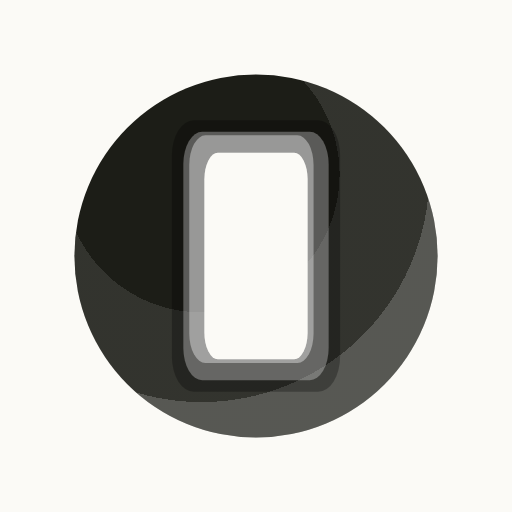
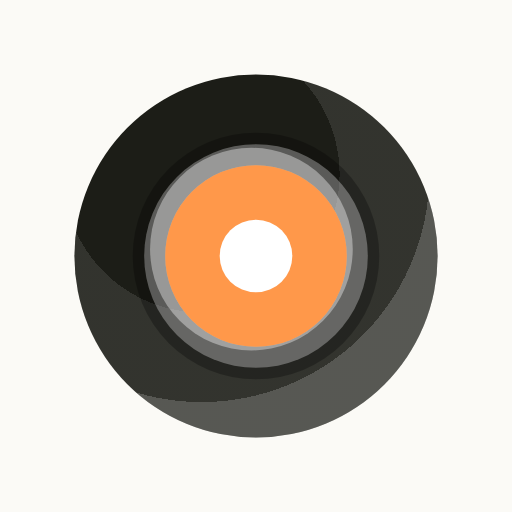
.394 the mark's optic is round, and orange
The slot is gone. It was a good aperture and a bad machine: a straight edge
drawn across an upright oval leaves a triangle, a wedge or a trapezoid, so the
HOLE changed shape at every lid position — which is a thing eyes do and machines
do not, and it is why the lid poses kept coming back reading as a face however
they were tuned. A circle is the one opening a straight edge cannot deform:
whatever angle a shutter arrives at, what is left is a circle with a chord taken
off it. The plate was already covering the whole opening, so this is the second
half of that fix rather than a new idea.

- MC_LENS_R 0.50 replaces MC_EYE_W/MC_EYE_H/MC_EYE_R. The lens is half the body
  wide, in the bezel and plate that already shipped, and slot() becomes disc().
- MC_CORE 0.40 blows the middle to white, gated on tone with the rim. It is what
  lets the lens be a mid-value hue at all: the colour carries the identity and
  the core carries the brightness, so neither has to do both.
- --mark-ink #fbfaf6 -> #ff984a. Cream was honest while the aperture was a hole
  cut in the body; a round lens is a thing that is ON, and a lamp has a colour.
  Orange because it is the one hue in the set that is neither a tab's band nor a
  state — lime is insights, yellow training, red injuries, purple data, blue
  settings, and a mark wearing any of those reads as that section.
- mcInset now solves from the OUTER BEZEL, not the lens. The bezel is the widest
[…]

Changed region(s): [[0.2812, 0.25, 0.7188, 0.7812]]

diff --git a/index.html b/index.html
@@ -26,8 +26,8 @@
 <!-- The mark itself: a full-bleed lime field with the two eyes on it. Full bleed
      because iOS rounds the corners of a home-screen icon for you, and rounding them
      here as well would inset the plate inside its own rounding. -->
[4 lines of base64/hex data omitted]
 <!-- THE FONT DOES NOT HOLD THE PAGE UP ANY MORE.
      It was pulled by @import from inside the stylesheet, which is the slowest way there is
      to load one: discovered only after the CSS has parsed, render-blocking once it is, and
@@ -195,7 +195,13 @@
        than needing a bone variant. The knockout goes cream: an ink eye in an ink body is not
        an eye. */
     --mark-shell:#1c1d17;
-    --mark-ink:#fbfaf6;
+    /* The optic's colour. It was the page's cream, which was the honest choice while the
+       aperture was a slot cut in the body — a hole shows you the light behind it and cream is
+       what "light" is here. A round lens is a different object: it is a thing that is ON,
+       and a lamp has a colour. Orange because it is the one hue in the set that is neither a
+       tab's band nor a state: lime is insights, yellow training, red injuries, purple data,
+       blue settings, and a mark wearing any of those reads as that section. */
+    --mark-ink:#ff984a;
     /* Sand. The same value --face-3 carries as a rating, named separately because this is not
        one: a token used for its hue has no business reading as "ok" wherever it turns up. If
        the rating scale is ever recut, that one moves and this does not. */
@@ -5915,23 +5921,34 @@ const MC_RAD = Math.PI / 180;
 /* Radius as a fraction of the host's drawing size. 0.56 puts a 38px sphere in the header's
    40px box at --mc-scale 0.85, which is the size the drafts were approved at. */
 const MC_RADIUS = 0.56;
-/* The eye, as fractions of the radius: a stadium 10.8 wide by 21.6 tall on a 38px sphere.
-   Half as wide as it is tall, which is the width at which it stops being a slot and starts
-   reading as an aperture — the thing the mark is: a lens in a solid, not a face on a ball. */
-const MC_EYE_W = 0.2843, MC_EYE_H = 0.5684;
-/* MACHINED, NOT GROWN. Two changes that between them stop the mark reading as an eye, and
-   both work by saying the hole was CUT rather than by adding anything inside it — which is
-   the trap, because the inside of an eye has structure too, so detail there only ever makes
-   a more detailed eye.
+/* THE OPTIC IS ROUND, AND THAT IS WHAT MAKES THE SHUTTERS WORK.
+   It was an upright slot, twice as tall as it was wide. The slot was a good aperture and a
+   bad machine: a straight edge drawn across it leaves a triangle, a wedge or a trapezoid, so
+   the HOLE changed shape at every lid position — which is a thing eyes do and machines do
+   not, and it is why the lid poses kept coming back reading as a face however they were
+   tuned. A circle is the one opening a straight edge cannot deform: whatever angle a shutter
+   arrives at, what is left is a circle with a chord taken off it, which is a plate sliding
+   over a lens and nothing else. The plate below was already covering the whole opening, so
+   this is the second half of that fix rather than a new idea.
 
-   MC_EYE_R is the aperture's corner radius as a fraction of its half-size. It was a full
-   stadium; a quarter is a slot with the corners taken off, which is what a machined opening
-   looks like. The BEZEL is the other half: two rings on the body around the hole, a shadow
-   outside and a lip inside, so there is a rim of material between the body and the opening.
-   It is the only cue here that lives on the body rather than in the aperture — and it is the
-   one that survives the mark turning, because a ring foreshortens as a rigid thing while an
-   oval just goes narrow, which is what a squint looks like. */
-const MC_EYE_R = 0.26;
+   Radius as a fraction of the sphere's, so the lens is half the body wide. */
+const MC_LENS_R = 0.50;
+/* The lit disc is blown out to white at its middle, as a fraction of the lens radius. It is
+   the difference between a painted disc and a lamp, and it is what lets the lens be a
+   mid-value hue at all: the colour carries the identity and the core carries the brightness,
+   so neither has to do both. Gated on tone with the rim — an unlit mount has no light for a
+   core to be the hot part of. */
+const MC_CORE = 0.40;
+/* MACHINED, NOT GROWN. The cues that stop the mark reading as an eye all work by saying the
+   hole was CUT rather than by adding anything inside it — which is the trap, because the
+   inside of an eye has structure too, so detail there only ever makes a more detailed eye.
+
+   The BEZEL is two rings on the body around the hole, a shadow outside and a lip inside, so
+   there is a rim of material between the body and the opening. It is the only cue here that
+   lives on the body rather than in the aperture — and it is the one that survives the mark
+   turning, because a ring foreshortens as a rigid thing while an oval just goes narrow,
+   which is what a squint looks like. Round now like the rest of the assembly, which cost it
+   nothing: it was already drawn as the aperture's own shape at a pair of insets. */
 const MC_BEZEL_OUT = 3.4 / 19, MC_BEZEL_IN = 2.2 / 19;
 /* THE SHUTTERS HAVE A BODY NOW.
    A lid used to mean the aperture simply was not there, so what you saw was whatever was
@@ -5939,23 +5956,21 @@ const MC_BEZEL_OUT = 3.4 / 19, MC_BEZEL_IN = 2.2 / 19;
    the HOLE was changing shape, which is a thing eyes do and machines do not.
 
    Filling the whole opening and drawing the aperture on top of it fixes that with no new
-   geometry at all, only an order: the opening stays a full slot at every lid position, and
+   geometry at all, only an order: the opening stays a full disc at every lid position, and
    something slides across it. It is painted in the tone at an alpha for the same reason
    everything else here is — a step from the body TOWARD the aperture, which comes out lighter
    on the wordmark's ink and darker on the chip's face colour without knowing either. */
 const MC_PLATE_A = 0.22;
-/* INSET pulls the eye's CENTRE in from the surface, because the bar has width and height and
-   the point it sits on has neither. It is not a picked number. Turned to ry the centre rides
-   out to INSET*sin(ry) while the bar's own half-width foreshortens to W*cos(ry), so across
-   the whole rotation the furthest a corner ever gets from the middle is hypot(INSET, W) one
-   way and H the other — and that has to stay inside the body. Solved, this is the largest
-   inset that never breaks the silhouette at any angle, which leaves the clip below as a
-   backstop rather than the mechanism.
+/* INSET pulls the optic's CENTRE in from the surface, because the lens has an extent and the
+   point it sits on has none. It is not a picked number. Turned to ry the centre rides out to
+   INSET*sin(ry) while the lens foreshortens to R*cos(ry), so the furthest its edge ever gets
+   from the middle is hypot(INSET, R) — and that has to stay inside the body. Solved, this is
+   the largest inset that never breaks the silhouette at any angle, which leaves the clip
+   below as a backstop rather than the mechanism.
 
-   It was hardcoded at 0.80, which is exactly this number for the 7.2 bar it was written for
-   — so it looked like a round choice and was really a solved one, and it quietly sliced the
-   eye the moment the bar got wider. */
-function mcInset(w){ return Math.sqrt(Math.max(0, 1 - w*w - MC_EYE_H*MC_EYE_H)); }
+   The slot needed two terms here, its half-width and its half-height, and had to be checked
+   in both. A circle reaches R in every direction at once, so there is only the one. */
+function mcInset(r){ return Math.sqrt(Math.max(0, 1 - r*r)); }
 /* TWO SHUTTERS, WHICH IS WHERE THE EXPRESSION ACTUALLY LIVES.
    A pair of eyes carried expression in the gap between them and in two lids working together.
    One aperture has neither — so it gets lids of its own, and they are the whole point: a
@@ -5964,14 +5979,13 @@ function mcInset(w){ return Math.sqrt(Math.max(0, 1 - w*w - MC_EYE_H*MC_EYE_H));
    The same lid position with the tilt mirrored is the difference between a frown and a droop,
    and nothing a scalar can do tells those apart.
 
-   lidT and lidB are where each edge sits across the aperture, in its own half-heights: 0 is
-   the middle, ±MC_LID_OPEN is clear of it altogether. lidTA and lidBA are their tilts, in
-   SCREEN degrees — converted on the way in, because the aperture's own space is twice as tall
-   as it is wide and a line at 20 degrees in it lands at nearly 40 on screen.
+   lidT and lidB are where each edge sits across the lens, in lens radii: 0 is the middle,
+   ±MC_LID_OPEN is clear of it altogether. lidTA and lidBA are their tilts, in degrees — and
+   on a round lens those ARE screen degrees, with nothing to convert.
 
-   ew is the fifth: how far the aperture opens sideways. All of them interpolate exactly like
-   the angles, so a step can carry any mix, and a move that touches only these never rotates
-   the body at all. */
+   ew is the fifth: how wide the optic opens. All of them interpolate exactly like the angles,
+   so a step can carry any mix, and a move that touches only these never rotates the body at
+   all. */
 const MC_LID_OPEN = 1.25;
 const MC_CH = ['rx', 'ry', 'rz', 'ew', 'lidT', 'lidTA', 'lidB', 'lidBA'];
 const MC_CH_REST = { rx:0, ry:0, rz:0, ew:1,
@@ -5986,8 +6000,10 @@ const MC_CH_REST = { rx:0, ry:0, rz:0, ew:1,
    entirely; null when the two edges have crossed and there is no aperture left to draw. */
 function mcLidPoly(T, aT, B, aB){
   if(aT === 0 && aB === 0 && T <= -1.02 && B >= 1.02) return true;
-  const tU = Math.tan(aT * MC_RAD) * (MC_EYE_W / MC_EYE_H);
-  const tB = Math.tan(aB * MC_RAD) * (MC_EYE_W / MC_EYE_H);
+  /* No aspect correction any more. The lens's own space is a unit circle, so a degree in it
+     is a degree on screen; the slot needed the ratio because it was twice as tall as wide. */
+  const tU = Math.tan(aT * MC_RAD);
+  const tB = Math.tan(aB * MC_RAD);
   const cut = (poly, at)=>{
     const out = [];
     for(let i = 0; i < poly.length; i++){
@@ -6054,7 +6070,7 @@ const MC_STEPS = [[0,0], [0.40,0], [0.40,0.10], [0.66,0.10],
                   [0.66,0.26], [0.86,0.26], [0.86,0.50], [1,0.50]];
 /* THE APERTURE IS BORED, NOT PRINTED.
    A flat eye sits ON the body; this one is a hole cut INTO it, and the only thing that says
-   so is its edge catching the light. Drawn as the same stadium a touch larger, shifted toward
+   so is its edge catching the light. Drawn as the same circle a touch larger, shifted toward
    MC_LIGHT and painted under the eye, so the only part that survives is the sliver on the lit
    side — which is exactly where a bored edge would catch it.
 
@@ -6139,15 +6155,18 @@ function mcPaint(m){
      is drawn along. One matrix out of those three is the whole of the eye's perspective. */
   const dir = P(G([0,0,1])), ex = P(G([1,0,0])), ey = P(G([0,1,0]));
   const cid = m.id, gid = m.id + 'Lit';
+  /* The outline's stroke weight, hoisted: the lens on that mount is drawn at the same weight
+     as the body, so the two rings read as one construction rather than two decisions. */
+  const lineW = m.line ? Math.max(1, s * 0.068) : 0;
   let out = '';
   if(m.line){
     /* THE OUTLINE IS THE SAME SOLID, UNPAINTED.
        Same circle, same eye, same size — asking and answered are one drawing and only the
        treatment differs. Stroked inside the radius so the ring's outer edge lands exactly on
        the silhouette the filled one paints to. */
-    const t = Math.max(1, s * 0.068), r = Math.max(0.5, rad - t/2);
+    const r = Math.max(0.5, rad - lineW/2);
     out += `<circle cx="${c}" cy="${c}" r="${r.toFixed(2)}" fill="none"`
-         + ` style="stroke:${m.line}" stroke-width="${t.toFixed(2)}"/>`
+         + ` style="stroke:${m.line}" stroke-width="${lineW.toFixed(2)}"/>`
          + `<clipPath id="${cid}"><circle cx="${c}" cy="${c}" r="${r.toFixed(2)}"/></clipPath>`;
   } else {
     out += `<circle cx="${c}" cy="${c}" r="${rad.toFixed(2)}" style="fill:${m.shell}"/>`;
@@ -6174,29 +6193,34 @@ function mcPaint(m){
      point — the cube kept a second eye on its back face because a half turn would otherwise
      have landed on a blank side, and a sphere has no sides to land on. */
   if(dir[2] > 0.02){
-    /* The inset is solved from the width, and the width moves now, so it is solved per frame
-       rather than once. A wider aperture has to sit further in or its corner leaves the body
-       at the limb — the same equation as before, just no longer a constant. */
-    const wf = MC_EYE_W * mcState.ew, inset = mcInset(wf);
-    const ew = rad * wf;
-    /* Full height, always. The lids do the closing now, so the aperture is never squashed —
-       which is what keeps its round ends round instead of flattening them into a lozenge. */
-    const eh = rad * MC_EYE_H;
+    /* The inset is solved from the lens's radius, and ew moves that, so it is solved per
+       frame rather than once. A wider optic has to sit further in or its edge leaves the body
+       at the limb — the same equation as before, just no longer a constant.
+
+       ew scales the WHOLE assembly, bezel and plate with it, which is what it did as a width
+       when the optic was a slot. An iris that dilated inside a fixed housing would be the
+       more literal machine, but it would need the lens to sit clear of the plate at rest —
+       and the plate showing as a ring around the lens is exactly what it must not do, since
+       its whole job is to be invisible until a shutter slides across it. */
+    const lr = MC_LENS_R * mcState.ew;
+    /* Solved from the OUTER BEZEL, not the lens. The bezel is drawn a fixed fraction of the
+       radius proud of the hole, so it is the widest part of the assembly and it is the part
+       that breaks the silhouette first — which the slot's solve never had to think about,
+       because the slot was narrow enough that its own half-height dominated. */
+    const inset = mcInset(lr + MC_BEZEL_OUT);
+    const er = rad * lr;
     const px = c + dir[0] * rad * inset, py = c + dir[1] * rad * inset;
-    /* The caps stay round in SCREEN units, so the stadium keeps its ends whatever the matrix
-       does to it — and a blink, which only squashes the height, closes to a lozenge rather
-       than to a rectangle with two half-discs stuck on. */
-    const at = (e, f)=> `matrix(${[ex[0]*ew, ex[1]*ew, ey[0]*eh, ey[1]*eh, e, f]
+    /* Both axes take the same radius now — the lens is round in its own space, and what makes
+       it an ellipse on screen is the surface frame, which is the point. */
+    const at = (e, f)=> `matrix(${[ex[0]*er, ex[1]*er, ey[0]*er, ey[1]*er, e, f]
                                   .map(v=> v.toFixed(4)).join(' ')})`;
-    /* One slot, drawn at four insets — the bezel's two rings, the lit rim, and the aperture
-       itself. mg is in user pixels and a negative one grows it, so every ring is the same
-       shape as the hole rather than a shape that has to be kept in step with it. */
-    const slot = (mg, fill)=>{
-      const w = (ew - mg)/ew, h = (eh - mg)/eh;
-      if(w <= 0 || h <= 0) return '';
-      return `<rect x="${(-w).toFixed(4)}" y="${(-h).toFixed(4)}" width="${(2*w).toFixed(4)}"`
-           + ` height="${(2*h).toFixed(4)}" rx="${(MC_EYE_R*w).toFixed(4)}"`
-           + ` ry="${(MC_EYE_R*Math.min(w,h)).toFixed(4)}" style="fill:${fill}"/>`;
+    /* One circle, drawn at four radii — the bezel's two rings, the lit rim, and the lens
+       itself. mg is in user pixels and a negative one grows it, so every ring is concentric
+       with the hole rather than a shape that has to be kept in step with it. */
+    const disc = (mg, fill)=>{
+      const k = (er - mg)/er;
+      if(k <= 0) return '';
+      return `<circle cx="0" cy="0" r="${k.toFixed(4)}" style="fill:${fill}"/>`;
     };
     let eye = '';
     /* The rim is the light, so it goes where the light goes: on the lit wordmark and nowhere
@@ -6205,9 +6229,26 @@ function mcPaint(m){
     if(m.tone){
       const off = rad * MC_RIM_OFF;
       eye += `<g transform="${at(px + MC_LIGHT[0]*off, py + MC_LIGHT[1]*off)}">`
-           + slot(-rad * MC_RIM_LIFT, `rgba(255,255,255,${MC_RIM_A})`) + `</g>`;
+           + disc(-rad * MC_RIM_LIFT, `rgba(255,255,255,${MC_RIM_A})`) + `</g>`;
     }
-    eye += `<g transform="${at(px, py)}">` + slot(0, m.ink) + `</g>`;
+    /* THE ASKING CHIP STAYS AN OUTLINE.
+       A filled chip reads as a rating already given, which is why that mount is stroked rather
+       than painted — and a round lens is far more fill than the slot was, so following the
+       body's rule matters more here than it did: on that mount the lens is a RING at the
+       body's own weight, not a disc. Stroke-width is in the lens's own space, so it
+       foreshortens with everything else when the mark turns.
+
+       Everywhere else the core rides INSIDE the lid clip with the lens, not outside it with
+       the bezel — it is the lamp, and a shutter that leaves the light burning through it is
+       not a shutter. */
+    eye += `<g transform="${at(px, py)}">`
+         + (m.line
+             ? `<circle cx="0" cy="0" r="${Math.max(0.05, 1 - lineW/(2*er)).toFixed(4)}"`
+               + ` fill="none" style="stroke:${m.line}"`
+               + ` stroke-width="${(lineW/er).toFixed(4)}"/>`
+             : disc(0, m.ink)
+               + (m.tone ? `<circle cx="0" cy="0" r="${MC_CORE}" style="fill:#ffffff"/>` : ''))
+         + `</g>`;
     /* A BLINK IS THE LIDS, NOT A SQUASH.
        It rides on top of whatever the lids are already doing rather than replacing it: both
        edges travel toward the middle by the same fraction, so a blink taken mid-frown closes
@@ -6218,9 +6259,9 @@ function mcPaint(m){
        its eye is, instead of going back to being a featureless ball. */
     let inner = '';
     if(m.tone) inner += `<g transform="${at(px, py)}">`
-                      + slot(-rad * MC_BEZEL_OUT, 'rgba(0,0,0,0.28)')
-                      + slot(-rad * MC_BEZEL_IN, `rgba(${m.tone},0.30)`)
-                      + slot(0, `rgba(${m.tone},${MC_PLATE_A})`) + `</g>`;
+                      + disc(-rad * MC_BEZEL_OUT, 'rgba(0,0,0,0.28)')
+                      + disc(-rad * MC_BEZEL_IN, `rgba(${m.tone},0.30)`)
+                      + disc(0, `rgba(${m.tone},${MC_PLATE_A})`) + `</g>`;
     const shut = 1 - Math.max(0, Math.min(1, mcState.blink));
     const poly = mcLidPoly(mcState.lidT * (1 - shut), mcState.lidTA,
                            mcState.lidB * (1 - shut), mcState.lidBA);
